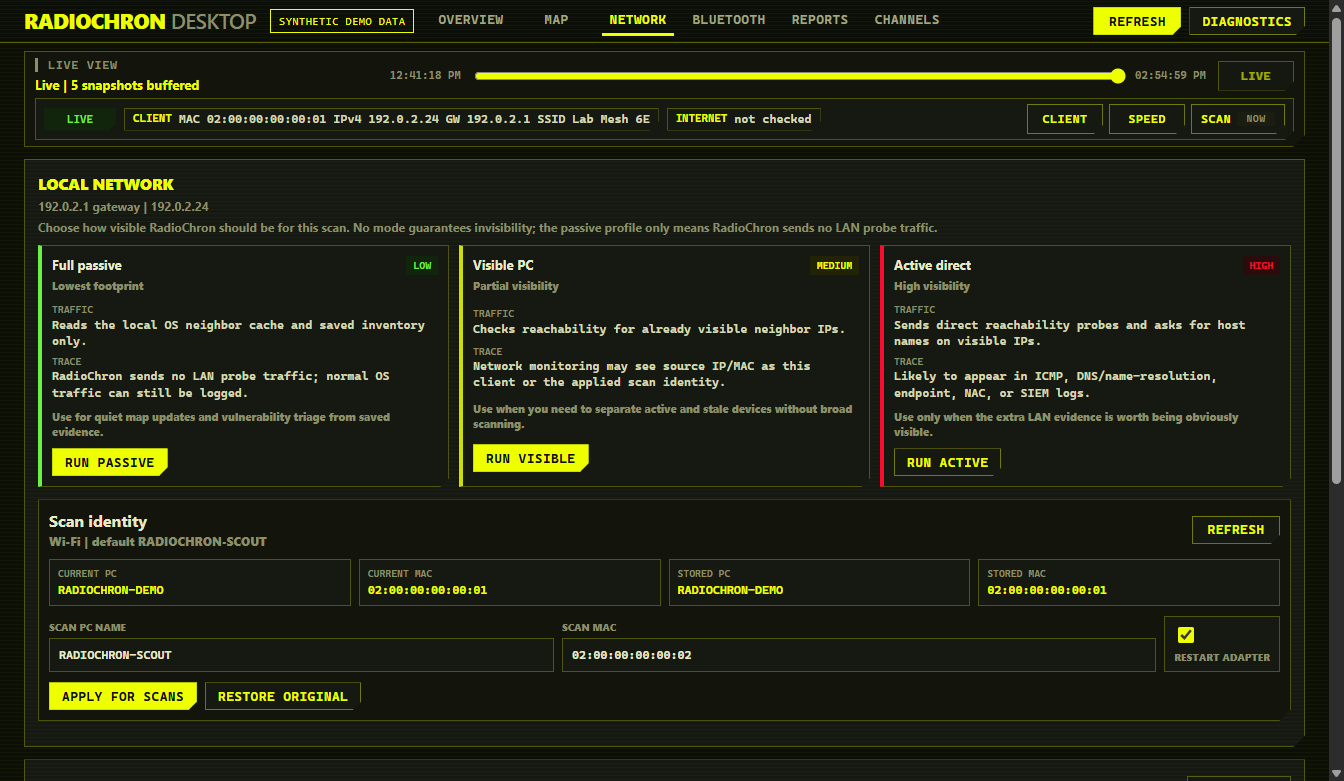
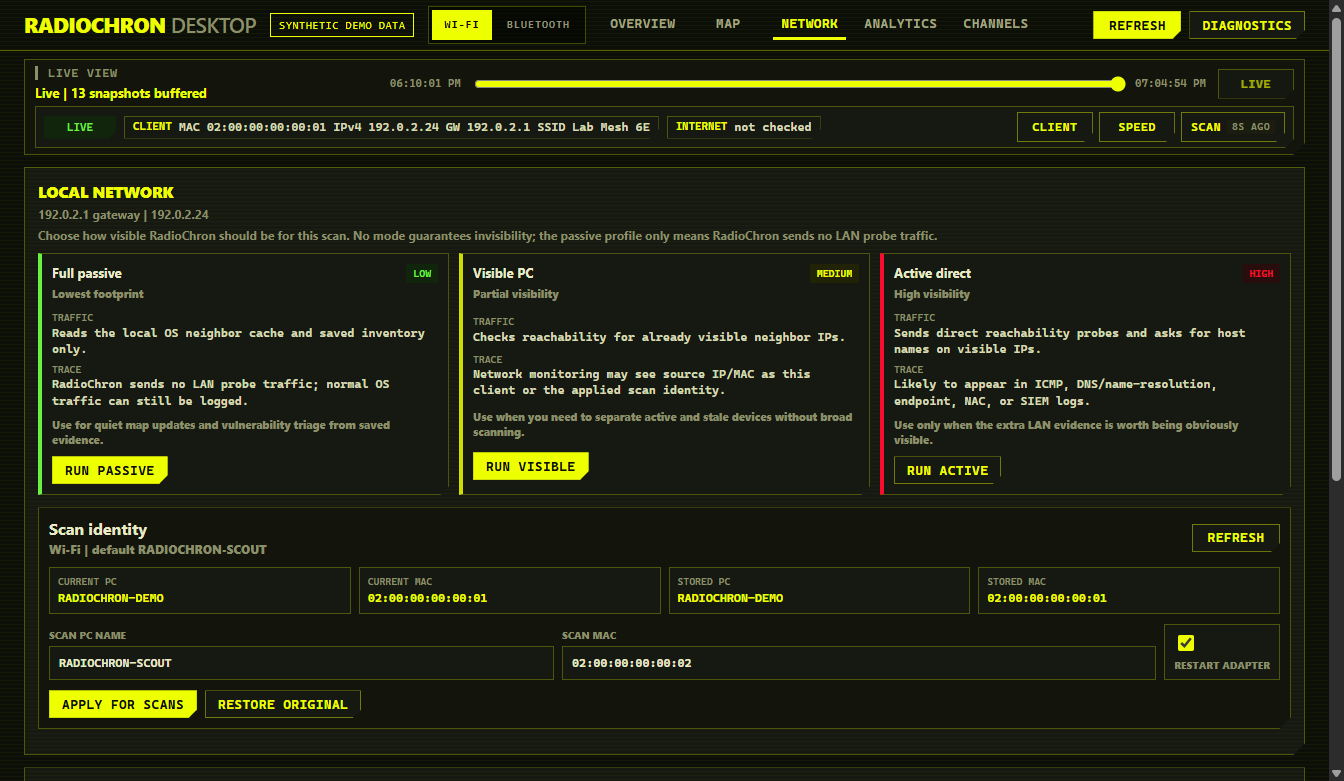
feat: publish desktop Bluetooth analytics and beta 2

diff --git a/public/electron.html b/public/electron.html
@@ -14,7 +14,7 @@
 <meta property="og:url" content="https://radiochron.com/electron">
 <meta property="og:image" content="https://radiochron.com/screenshots/radiochron-desktop-overview.png">
 <link rel="icon" type="image/svg+xml" href="/favicon.svg">
-<link rel="stylesheet" href="/styles.css?v=3">
+<link rel="stylesheet" href="/styles.css?v=4">
 </head>
 <body>
 
@@ -40,7 +40,9 @@
     <h1>Evidence you can<br>attach to a ticket</h1>
     <p style="margin-top:20px;font-size:1.1rem">Intermittent Wi-Fi is hard to prove after the
       link recovers. <strong>RadioChron Desktop</strong> records baselines, compares observations,
-      maps Wi-Fi radios, tracks nearby BLE identities, and keeps diagnostic evidence local.</p>
+      maps Wi-Fi and Bluetooth radios with the same zoomable viewport, resolves paired and connected
+      Bluetooth devices through the OS inventory, explains 1/7/30-day presence patterns, exports
+      evidence-rich PDFs, and keeps diagnostic evidence local.</p>
     <div class="actions">
       <a class="button primary" href="#download">Download beta</a>
       <a class="button" href="#screenshots">See screenshots</a>
@@ -58,9 +60,15 @@
       use documentation-only ranges.</p>
     <div class="shot-grid">
       <figure><img src="/screenshots/radiochron-desktop-overview.png" alt="RadioChron Desktop overview showing synthetic Wi-Fi status"><figcaption>Overview — status, signal, exposure and collectors</figcaption></figure>
-      <figure><img src="/screenshots/radiochron-desktop-map.png" alt="RadioChron Desktop relative RF map with synthetic access points"><figcaption>Relative RF map — wide+ spread correction by default</figcaption></figure>
+      <figure><img src="/screenshots/radiochron-desktop-map.png" alt="RadioChron Desktop relative RF map with synthetic access points"><figcaption>Wi-Fi RF map — pan, anchored zoom, fullscreen and collision layout</figcaption></figure>
+      <figure><img src="/screenshots/radiochron-desktop-analytics.png" alt="RadioChron Desktop Wi-Fi evidence timeline, pulse watch and signal matrices"><figcaption>Wi-Fi Analytics — timeline, transition pulse watch and AP matrices</figcaption></figure>
+      <figure><img src="/screenshots/radiochron-desktop-wifi-presence.png" alt="RadioChron Desktop Wi-Fi sampled presence patterns"><figcaption>Wi-Fi presence — filterable 1/7/30-day stability and recurrence evidence</figcaption></figure>
       <figure><img src="/screenshots/radiochron-desktop-network.png" alt="RadioChron Desktop network view with documentation-only addresses"><figcaption>Network — controlled local diagnostics and scan identity</figcaption></figure>
-      <figure><img src="/screenshots/radiochron-desktop-bluetooth.png" alt="RadioChron Desktop Bluetooth history with synthetic beacons"><figcaption>Bluetooth — identity history and caveated detector evidence</figcaption></figure>
+      <figure><img src="/screenshots/radiochron-desktop-bluetooth-map.png" alt="RadioChron Desktop Bluetooth RF map with synthetic devices"><figcaption>Bluetooth RF map — shared pan, zoom, fullscreen, filters and typed links</figcaption></figure>
+      <figure><img src="/screenshots/radiochron-desktop-bluetooth-sensor-detail.png" alt="RadioChron Desktop local Bluetooth node with connected, paired and observed relationships"><figcaption>Local node — connected, paired and observed relationships stay distinct</figcaption></figure>
+      <figure><img src="/screenshots/radiochron-desktop-bluetooth-devices.png" alt="RadioChron Desktop Bluetooth device inventory with a connected mock mouse"><figcaption>Bluetooth devices — radio evidence plus paired and connected OS inventory</figcaption></figure>
+      <figure><img src="/screenshots/radiochron-desktop-bluetooth-analytics.png" alt="RadioChron Desktop Bluetooth evidence timeline and recurrence matrix"><figcaption>Bluetooth Analytics — RSSI gaps, recurrence, system inventory and detector pulses</figcaption></figure>
+      <figure><img src="/screenshots/radiochron-desktop-bluetooth-presence.png" alt="RadioChron Desktop Bluetooth sampled presence patterns"><figcaption>Presence patterns — new, stable, weekday, recurring and dormant evidence over 1/7/30 days</figcaption></figure>
       <figure><img src="/screenshots/radiochron-desktop-channels.png" alt="RadioChron Desktop channel pressure view with synthetic access points"><figcaption>Channels — congestion and overlap evidence</figcaption></figure>
     </div>
   </div>
@@ -74,8 +82,11 @@
       <div class="card cut"><h3>Baseline runs</h3><div class="m">Capture a timed baseline of the connection and environment, retain it locally and compare runs.</div></div>
       <div class="card cut"><h3>Evidence timeline</h3><div class="m">Reconnect and environment observations become a support-ready chronology, not just a snapshot.</div></div>
       <div class="card cut"><h3>AP inventory</h3><div class="m">SSID/BSSID, dBm, band, channel, advertised security, BSS information elements and first/last seen history.</div></div>
-      <div class="card cut"><h3>Relative RF view</h3><div class="m">Deterministic signal-based layout with collision correction. It is visualization, not ranging or geolocation.</div></div>
+      <div class="card cut"><h3>Shared RF map engine</h3><div class="m">Wi-Fi and Bluetooth reuse one pannable, zoomable, fullscreen viewport with deterministic collision correction, search and retained-history filters. The clickable “You” node exposes connected, paired, observed and retained relationships without turning RSSI into distance.</div></div>
       <div class="card cut"><h3>Channel pressure</h3><div class="m">Explain crowded channels using live APs, signal mix, overlap and advertised BSS load.</div></div>
+      <div class="card cut"><h3>Bluetooth device inventory</h3><div class="m">Combine advertisements with paired/connected OS inventory by exact address, preserving real names and device categories without inventing RSSI. Company IDs, GATT services and GAP appearances resolve from a bundled versioned database; <a href="/data/bluetooth-assigned-numbers.json">download the snapshot</a> or read its <a href="/data/NOTICE.txt">license and provenance</a>.</div></div>
+      <div class="card cut"><h3>Evidence Analytics</h3><div class="m">Explore exact retained scans through selectable timelines, transition pulse watches, signal matrices and filterable 1/7/30-day presence patterns. Missing observations remain gaps.</div></div>
+      <div class="card cut"><h3>Evidence-rich PDF</h3><div class="m">Export Wi-Fi and Bluetooth history with real scan charts, changes, distributions, presence patterns and explicit interpretation limits. Location/LAN reports include richer RF, vendor, security and review evidence.</div></div>
       <div class="card cut"><h3>BLE identity history</h3><div class="m">Track protocol and address evidence, recurrence and signal range; flag persistence, disappearance, clone or flood evidence with explicit limitations.</div></div>
       <div class="card cut"><h3>Local-first</h3><div class="m">No telemetry, accounts, cookies or cloud dependency. Export only when the operator asks.</div></div>
     </div>
@@ -111,16 +122,16 @@
   <div class="wrap">
     <div class="tag">//: 04 — DOWNLOAD BETA</div>
     <h2>Desktop installers</h2>
-    <p>Download the current open-source beta. These builds are produced from the tested repository
+    <p>Download the current open-source beta 2. These builds are produced from the tested repository
       commit and include the native <code>radiochron-js</code> adapter.</p>
     <div class="grid g3 download-grid">
-      <div class="card cut"><h3>Windows x64</h3><div class="m">Assisted NSIS installer (.exe)</div><div class="actions"><a class="button primary" href="https://github.com/sergii-ziborov/radiochron-electron/releases/download/desktop-v0.2.0-beta.1/RadioChron-Desktop-0.2.0-Windows-x64.exe">Download</a></div></div>
-      <div class="card cut"><h3>Mac — Apple Silicon</h3><div class="m">DMG for M1, M2, M3 and newer</div><div class="actions"><a class="button primary" href="https://github.com/sergii-ziborov/radiochron-electron/releases/download/desktop-v0.2.0-beta.1/RadioChron-Desktop-0.2.0-macOS-Apple-Silicon.dmg">Download</a></div></div>
-      <div class="card cut"><h3>Mac — Intel</h3><div class="m">DMG for Intel-based Macs</div><div class="actions"><a class="button primary" href="https://github.com/sergii-ziborov/radiochron-electron/releases/download/desktop-v0.2.0-beta.1/RadioChron-Desktop-0.2.0-macOS-Intel.dmg">Download</a></div></div>
+      <div class="card cut"><h3>Windows x64</h3><div class="m">Assisted NSIS installer (.exe)</div><div class="actions"><a class="button primary" href="https://github.com/sergii-ziborov/radiochron-electron/releases/download/desktop-v0.2.0-beta.2/RadioChron-Desktop-0.2.0-Windows-x64.exe">Download</a></div></div>
+      <div class="card cut"><h3>Mac — Apple Silicon</h3><div class="m">DMG for M1, M2, M3 and newer</div><div class="actions"><a class="button primary" href="https://github.com/sergii-ziborov/radiochron-electron/releases/download/desktop-v0.2.0-beta.2/RadioChron-Desktop-0.2.0-macOS-Apple-Silicon.dmg">Download</a></div></div>
+      <div class="card cut"><h3>Mac — Intel</h3><div class="m">DMG for Intel-based Macs</div><div class="actions"><a class="button primary" href="https://github.com/sergii-ziborov/radiochron-electron/releases/download/desktop-v0.2.0-beta.2/RadioChron-Desktop-0.2.0-macOS-Intel.dmg">Download</a></div></div>
     </div>
     <p class="beta-warning"><strong>Unsigned beta:</strong> Windows SmartScreen and macOS Gatekeeper
       may warn. The macOS builds are not Developer ID signed or notarized yet. Verify the SHA-256
-      file from the <a href="https://github.com/sergii-ziborov/radiochron-electron/releases/tag/desktop-v0.2.0-beta.1">release page</a> before testing.</p>
+      file from the <a href="https://github.com/sergii-ziborov/radiochron-electron/releases/tag/desktop-v0.2.0-beta.2">release page</a> before testing.</p>
     <h3 style="margin-top:34px">Build it yourself</h3>
     <div class="term cut">
       <div class="bar"><i></i><i></i><i></i></div>
@@ -147,6 +158,7 @@
     <div class="cols">
       <a href="https://github.com/sergii-ziborov/radiochron-electron">radiochron-electron</a>
       <a href="https://github.com/sergii-ziborov/radiochron-js">radiochron-js</a>
+      <a href="/data/bluetooth-assigned-numbers.json">Bluetooth data</a>
       <a href="/license">MIT license</a>
       <a href="/privacy">privacy</a>
     </div>

diff --git a/public/index.html b/public/index.html
@@ -42,7 +42,7 @@
   ]
 }
 </script>
-<link rel="stylesheet" href="/styles.css?v=3">
+<link rel="stylesheet" href="/styles.css?v=4">
 </head>
 <body>
 
@@ -111,8 +111,10 @@
 <pre><span class="c"># Rust library</span>
 <span class="g">$</span> cargo add radiochron
 
-<span class="c"># Node library and native MCP server</span>
+<span class="c"># Standalone Node library</span>
 <span class="g">$</span> npm install radiochron
+
+<span class="c"># Separate MCP server package</span>
 <span class="g">$</span> claude mcp add radiochron -- npx -y radiochron-mcp</pre>
     </div>
   </div>
@@ -240,8 +242,9 @@ radiochron-esp-idf = { version = "0.2", features = ["nimble"] }
         <a href="https://www.npmjs.com/package/radiochron">Install from npm</a>.</div></div>
       <div class="card cut"><h3>Desktop app</h3>
         <div class="m"><a href="/electron">RadioChron Desktop</a> —
-        Windows/macOS baselines, relative RF map, channel pressure, BLE history and network
-        inventory. It imports <code>radiochron-js</code>; builds cover Windows x64, Intel Mac and Apple Silicon.
+        Windows/macOS baselines, shared Wi-Fi/Bluetooth RF map, 1/7/30-day presence patterns,
+        typed device relationships, rich PDF evidence, channel pressure and network inventory.
+        It imports <code>radiochron-js</code>; builds cover Windows x64, Intel Mac and Apple Silicon.
         <a href="/electron#download">Downloads and details</a>.</div></div>
     </div>
   </div>
@@ -253,8 +256,9 @@ radiochron-esp-idf = { version = "0.2", features = ["nimble"] }
     <div class="desktop-lead">
       <div>
         <h2>The radio evidence, on screen</h2>
-        <p>Capture a baseline, compare observations, inspect Wi-Fi and BLE radios, map relative
-          Wi-Fi signal, and export support-ready evidence without sending telemetry anywhere.</p>
+        <p>Capture a baseline, inspect Wi-Fi and Bluetooth radios through the same pan/zoom/fullscreen
+          RF map, merge radio evidence with paired or connected OS devices, and explore exact retained
+          scans and 1/7/30-day patterns without sending telemetry anywhere.</p>
         <div class="actions">
           <a class="button primary" href="/electron#download">Download desktop beta</a>
           <a class="button" href="/electron">Desktop details</a>
@@ -264,8 +268,14 @@ radiochron-esp-idf = { version = "0.2", features = ["nimble"] }
     </div>
     <div class="shot-grid compact">
       <figure><img src="/screenshots/radiochron-desktop-map.png" alt="RadioChron Desktop relative RF map with synthetic access points" loading="lazy"><figcaption>Relative RF map</figcaption></figure>
+      <figure><img src="/screenshots/radiochron-desktop-analytics.png" alt="RadioChron Desktop Wi-Fi evidence timeline, pulse watch and signal matrices" loading="lazy"><figcaption>Wi-Fi Analytics</figcaption></figure>
+      <figure><img src="/screenshots/radiochron-desktop-wifi-presence.png" alt="RadioChron Desktop Wi-Fi 1, 7 and 30-day sampled presence patterns" loading="lazy"><figcaption>Wi-Fi presence patterns</figcaption></figure>
       <figure><img src="/screenshots/radiochron-desktop-network.png" alt="RadioChron Desktop network controls with documentation-only addresses" loading="lazy"><figcaption>Network evidence</figcaption></figure>
-      <figure><img src="/screenshots/radiochron-desktop-bluetooth.png" alt="RadioChron Desktop Bluetooth history with synthetic beacons" loading="lazy"><figcaption>BLE history</figcaption></figure>
+      <figure><img src="/screenshots/radiochron-desktop-bluetooth-map.png" alt="RadioChron Desktop Bluetooth RF map with synthetic devices" loading="lazy"><figcaption>Bluetooth RF map</figcaption></figure>
+      <figure><img src="/screenshots/radiochron-desktop-bluetooth-sensor-detail.png" alt="RadioChron Desktop local Bluetooth node with typed relationships" loading="lazy"><figcaption>Bluetooth relationships</figcaption></figure>
+      <figure><img src="/screenshots/radiochron-desktop-bluetooth-devices.png" alt="RadioChron Desktop Bluetooth inventory with a connected mock mouse" loading="lazy"><figcaption>Bluetooth devices</figcaption></figure>
+      <figure><img src="/screenshots/radiochron-desktop-bluetooth-analytics.png" alt="RadioChron Desktop Bluetooth evidence timeline and recurrence matrix" loading="lazy"><figcaption>Bluetooth Analytics</figcaption></figure>
+      <figure><img src="/screenshots/radiochron-desktop-bluetooth-presence.png" alt="RadioChron Desktop Bluetooth 1, 7 and 30-day presence patterns" loading="lazy"><figcaption>Bluetooth presence patterns</figcaption></figure>
       <figure><img src="/screenshots/radiochron-desktop-channels.png" alt="RadioChron Desktop channel pressure view with synthetic access points" loading="lazy"><figcaption>Channel pressure</figcaption></figure>
     </div>
     <p class="screen-note">All screenshots use invented SSIDs and beacons, locally administered MAC addresses and documentation-only IP ranges.</p>

diff --git a/README.md b/README.md
@@ -4,6 +4,16 @@ Source for [radiochron.com](https://radiochron.com), a static website deployed w
 
 The deployable files live in `public/`. The site uses no client-side JavaScript, analytics, cookies, or telemetry.
 
+The Desktop page includes Electron-captured synthetic screenshots for the
+shared Wi-Fi/Bluetooth map, typed Bluetooth relationships, and filterable
+1/7/30-day presence analytics. No real SSID, address, or device identity is
+used in those images.
+
+`public/data/bluetooth-assigned-numbers.json` is the downloadable, versioned
+company/service/appearance snapshot bundled with RadioChron Desktop. Its source
+revision and BSD-3-Clause attribution are embedded in the file and repeated in
+`public/data/NOTICE.txt`.
+
 ## Repository family
 
 - [`radiochron`](https://github.com/sergii-ziborov/radiochron) — IoT-focused Rust Wi-Fi/BLE library
